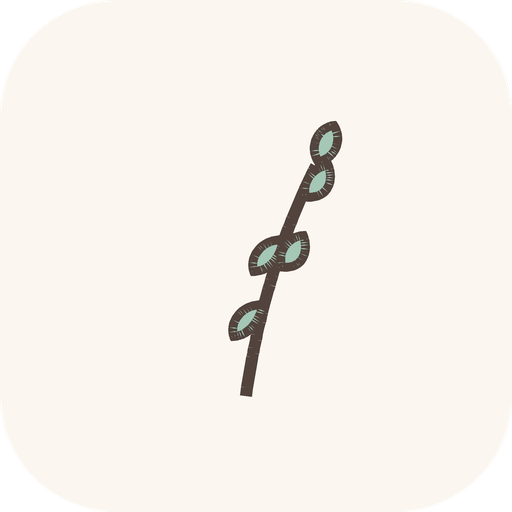
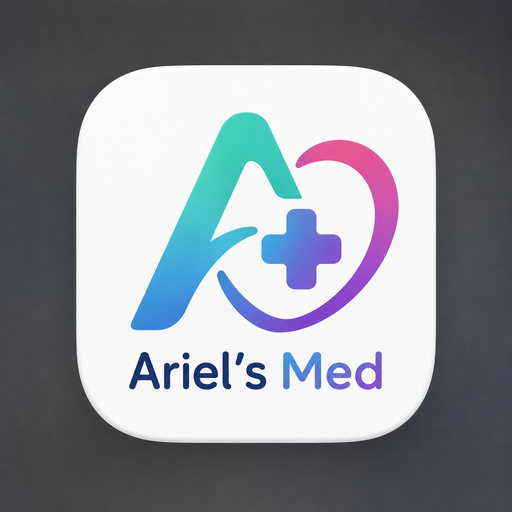
fix

diff --git a/index.html b/index.html
@@ -10,7 +10,7 @@
     <meta name="apple-mobile-web-app-status-bar-style" content="default" />
     <meta name="apple-mobile-web-app-title" content="Ariel's Med" />
     <link rel="manifest" href="%BASE_URL%manifest.webmanifest" />
-    <link rel="icon" type="image/svg+xml" href="%BASE_URL%pwa-icon.svg" />
+    <link rel="icon" type="image/png" sizes="192x192" href="%BASE_URL%pwa-icon-192.png" />
     <link rel="apple-touch-icon" href="%BASE_URL%pwa-icon-192.png" />
     <link
       rel="preload"